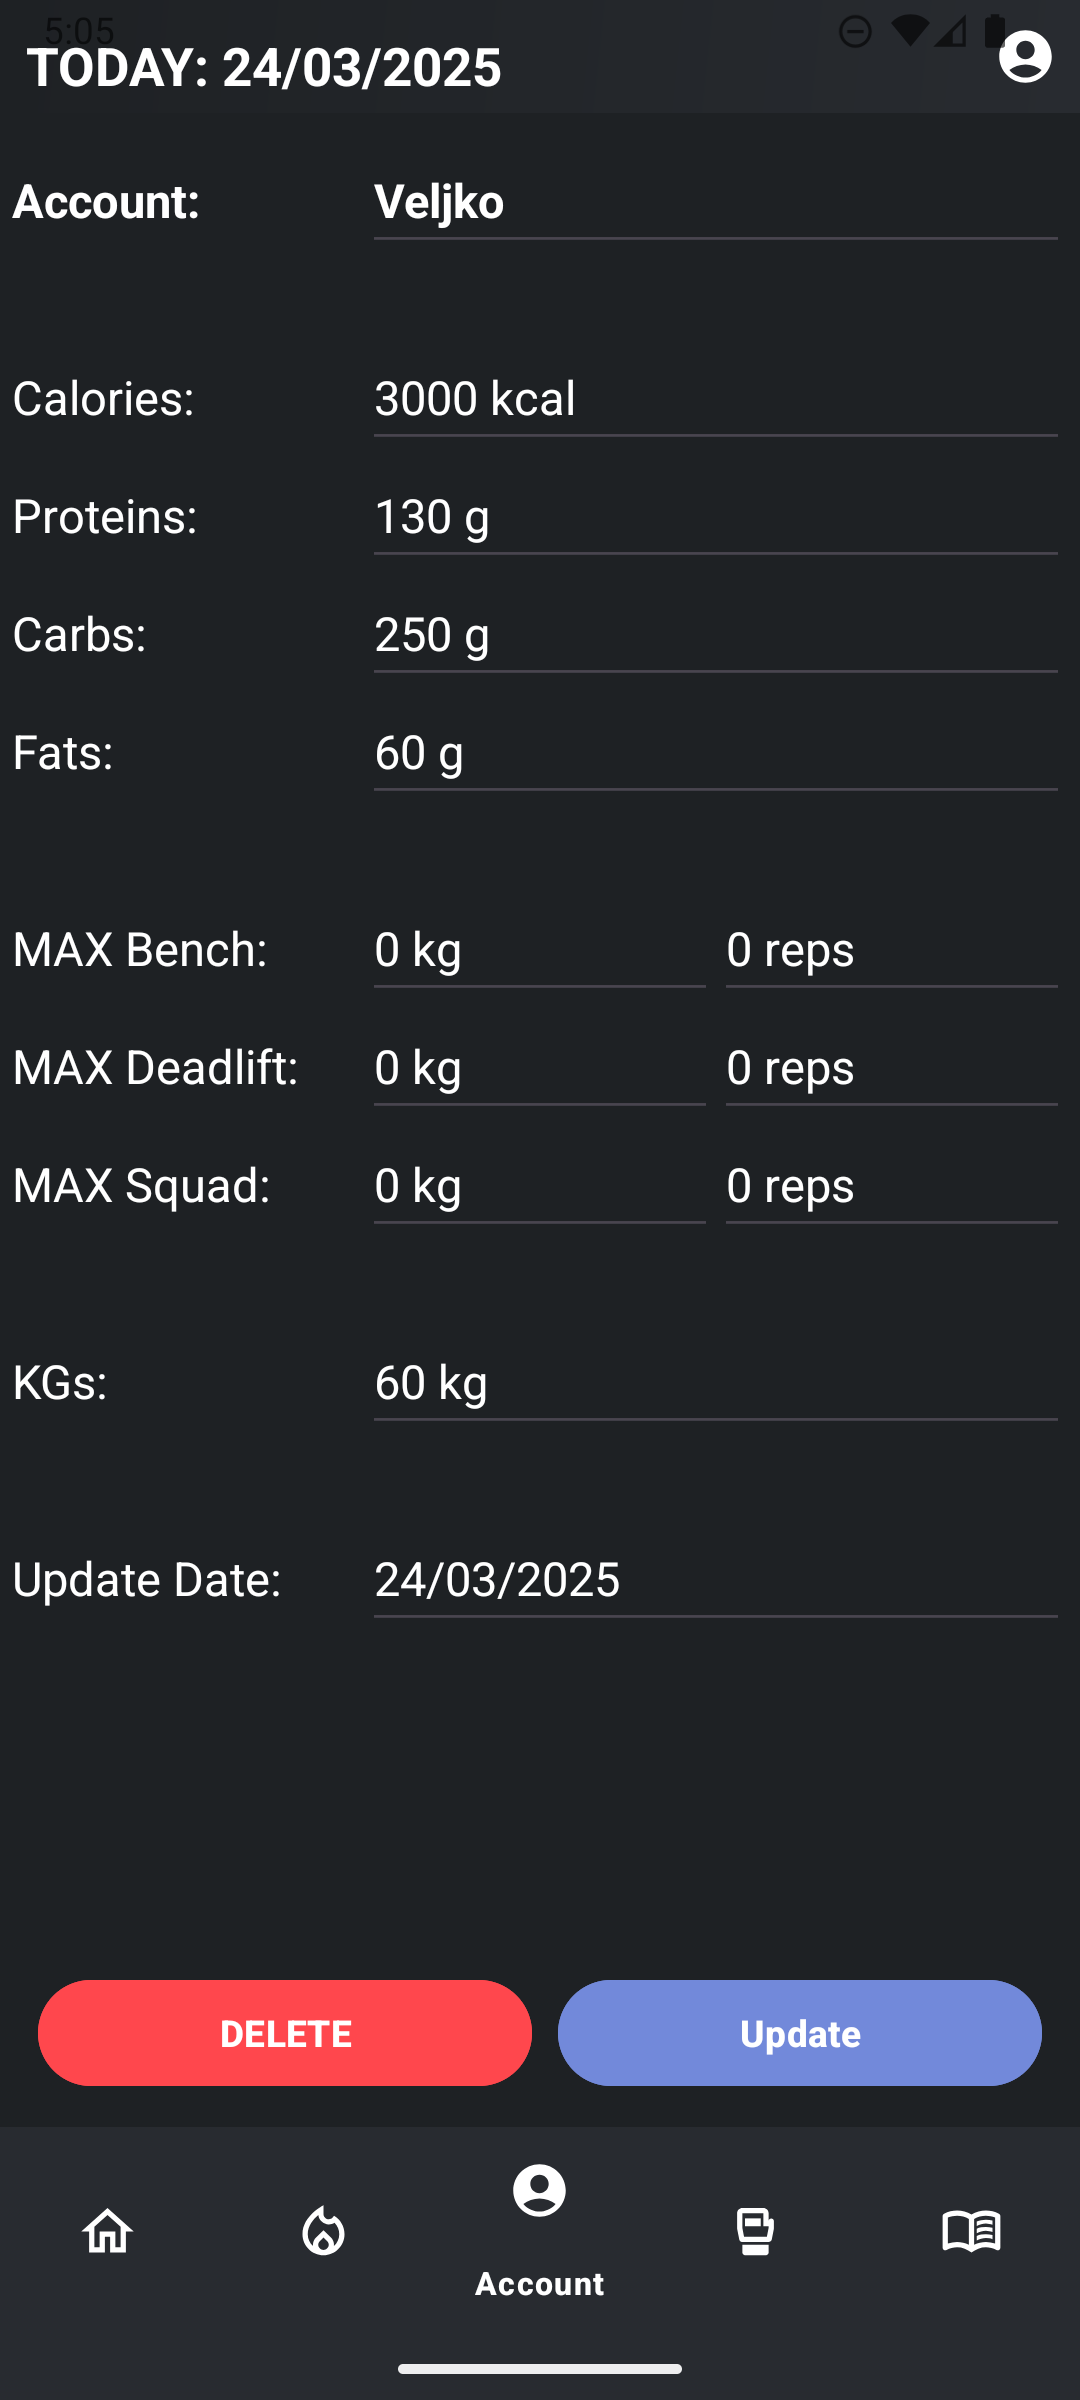
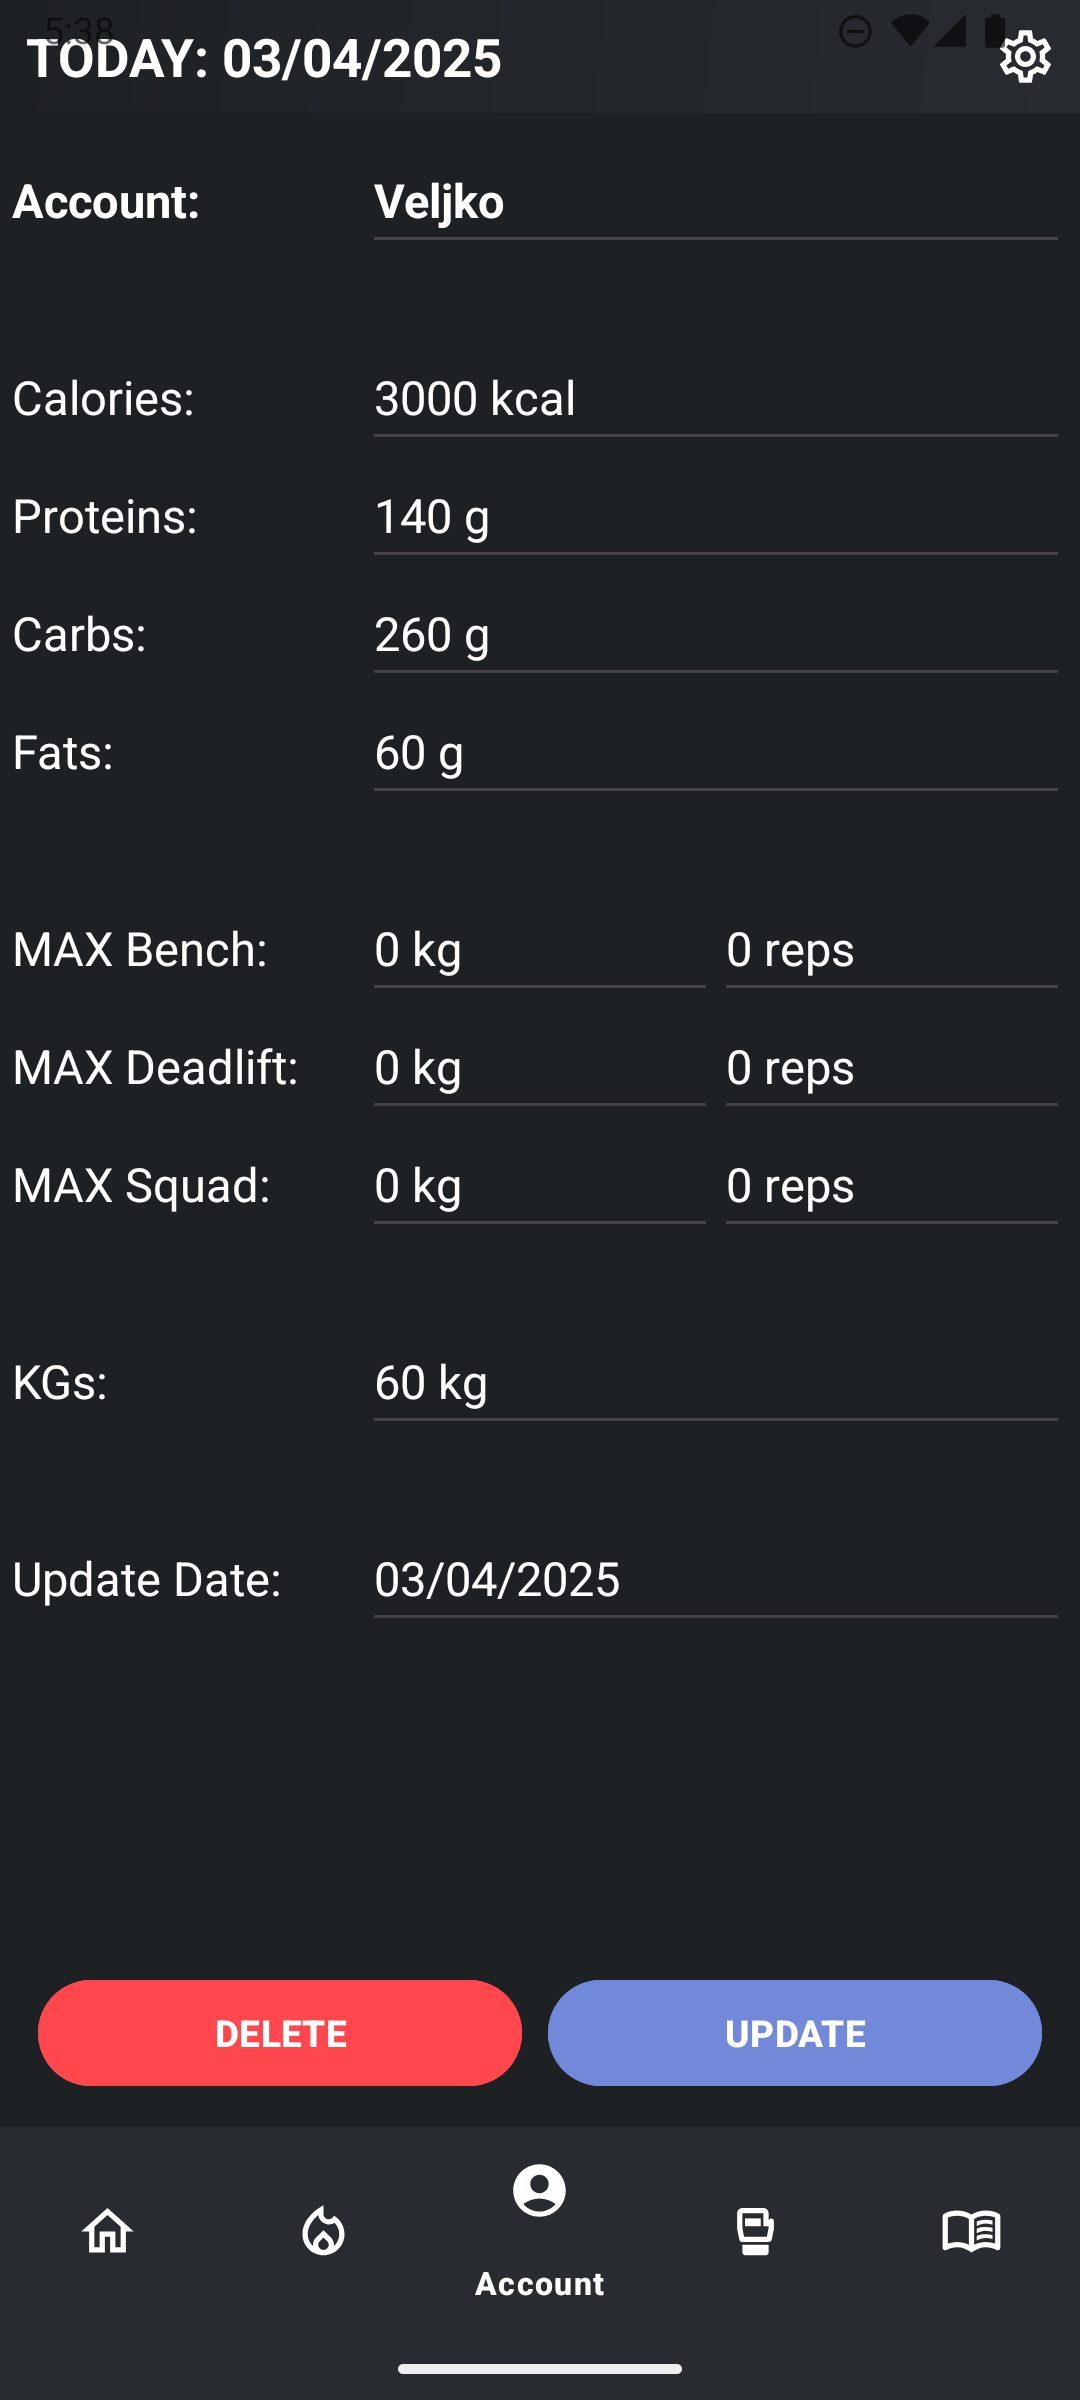
Added Settings Pop Up

diff --git a/app/src/main/java/com/example/myapplication/fragments/SettingsPopUpFragment.kt b/app/src/main/java/com/example/myapplication/fragments/SettingsPopUpFragment.kt
@@ -1,0 +1,117 @@
+package com.example.myapplication.fragments
+
+import android.app.AlertDialog
+import android.graphics.Color
+import android.os.Bundle
+import android.text.SpannableString
+import android.text.Spanned
+import android.text.style.ForegroundColorSpan
+import androidx.fragment.app.Fragment
+import android.view.LayoutInflater
+import android.view.View
+import android.view.ViewGroup
+import android.widget.Button
+import android.widget.Toast
+import androidx.fragment.app.DialogFragment
+import com.example.myapplication.R
+
+class SettingsPopUpFragment : DialogFragment() {
+
+    override fun onCreateView(
+        inflater: LayoutInflater, container: ViewGroup?,
+        savedInstanceState: Bundle?
+    ): View? {
+        val view = inflater.inflate(R.layout.fragment_settings_pop_up, container, false)
+
+        val btnDeleteFood = view.findViewById<Button>(R.id.btnDeleteFoodDatabase)
+        val btnDeleteAccount = view.findViewById<Button>(R.id.btnDeleteAccountDatabase)
+        val btnDeleteWorkout = view.findViewById<Button>(R.id.btnDeleteWorkoutDatabase)
+
+        val builder = AlertDialog.Builder(context)
+        val positiveSpan = SpannableString("Yes").apply { setSpan(ForegroundColorSpan(Color.GREEN), 0, "Yes".length, Spanned.SPAN_EXCLUSIVE_EXCLUSIVE) }
+        val negativeSpan = SpannableString("No").apply { setSpan(ForegroundColorSpan(Color.RED), 0, "No".length, Spanned.SPAN_EXCLUSIVE_EXCLUSIVE) }
+
+        btnDeleteFood.setOnClickListener {
+
+            builder.setMessage("Are you sure you want to delete FoodDatabase?")
+                .setCancelable(true)
+                .setTitle("Delete Food Database")
+
+                .setPositiveButton(positiveSpan) { dialog, id ->
+                    try{
+
+                        context?.applicationContext?.deleteDatabase("FoodDatabase")
+                        Toast.makeText(context, "Deleted Food Database", Toast.LENGTH_SHORT).show()
+
+                    } catch (e: Exception) {
+
+                        Toast.makeText(context, "Deleting Food Database ERROR", Toast.LENGTH_SHORT).show()
+                        e.message
+                    }
+                }
+
+                .setNegativeButton(negativeSpan) { dialog, id -> dialog.dismiss()}
+                .show()
+
+        }
+
+        btnDeleteAccount.setOnClickListener {
+
+            builder.setMessage("Are you sure you want to delete AccountDatabase?")
+                .setCancelable(true)
+                .setTitle("Delete Account Database")
+
+                .setPositiveButton(positiveSpan) { dialog, id ->
+                    try {
+
+                        context?.applicationContext?.deleteDatabase("AccountDatabase")
+                        Toast.makeText(context, "Deleted Account Database", Toast.LENGTH_SHORT)
+                            .show()
+
+                    } catch (e: Exception) {
+
+                        Toast.makeText(
+                            context,
+                            "Deleting Account Database ERROR",
+                            Toast.LENGTH_SHORT
+                        ).show()
+                        e.message
+                    }
+                }
+
+                .setNegativeButton(negativeSpan) { dialog, id -> dialog.dismiss()}
+                .show()
+        }
+
+        btnDeleteWorkout.setOnClickListener {
+
+            builder.setMessage("Are you sure you want to delete WorkoutDatabase?")
+                .setCancelable(true)
+                .setTitle("Delete Workout Database")
+
+                .setPositiveButton(positiveSpan) { dialog, id ->
+
+                    try {
+
+                        context?.applicationContext?.deleteDatabase("WorkoutDatabase")
+                        Toast.makeText(context, "Deleted Workout Database", Toast.LENGTH_SHORT)
+                            .show()
+
+                    } catch (e: Exception) {
+
+                        Toast.makeText(
+                            context,
+                            "Deleting Workout Database ERROR",
+                            Toast.LENGTH_SHORT
+                        ).show()
+                        e.message
+                    }
+                }
+
+                .setNegativeButton(negativeSpan) { dialog, id -> dialog.dismiss()}
+                .show()
+        }
+
+        return view
+    }
+}

diff --git a/app/src/main/java/com/example/myapplication/MainActivityFragment.kt b/app/src/main/java/com/example/myapplication/MainActivityFragment.kt
@@ -12,6 +12,7 @@ import com.example.myapplication.fragments.FoodAddFragment
 import com.example.myapplication.fragments.FoodFragment
 import com.example.myapplication.fragments.HistoryFragment
 import com.example.myapplication.fragments.MainFragment
+import com.example.myapplication.fragments.SettingsPopUpFragment
 import com.example.myapplication.fragments.WorkoutFragment
 import com.example.myapplication.utils.CurrentDate
 import com.google.android.material.bottomnavigation.BottomNavigationView
@@ -117,6 +118,9 @@ class MainActivityFragment : AppCompatActivity() {
             settings.setImageResource(R.drawable.settings_filled)
 
             Toast.makeText(applicationContext, "Settings: Delete Databases...", Toast.LENGTH_SHORT).show()
+
+            val settingsPopUp = SettingsPopUpFragment()
+            settingsPopUp.show(supportFragmentManager, "settingsPopUp")
         }
     }
 }

diff --git a/README.md b/README.md
@@ -32,6 +32,7 @@ Pics of the app's user interface:
 <img src = "./images/Workout.png" width = 180>
 <img src = "./images/WorkoutAdd.png" width = 180>
 <img src = "./images/WorkoutUpdate.png" width = 180>
+<img src = "./images/Settings.png" width = 180>
 </details>
 
 ### Tables
